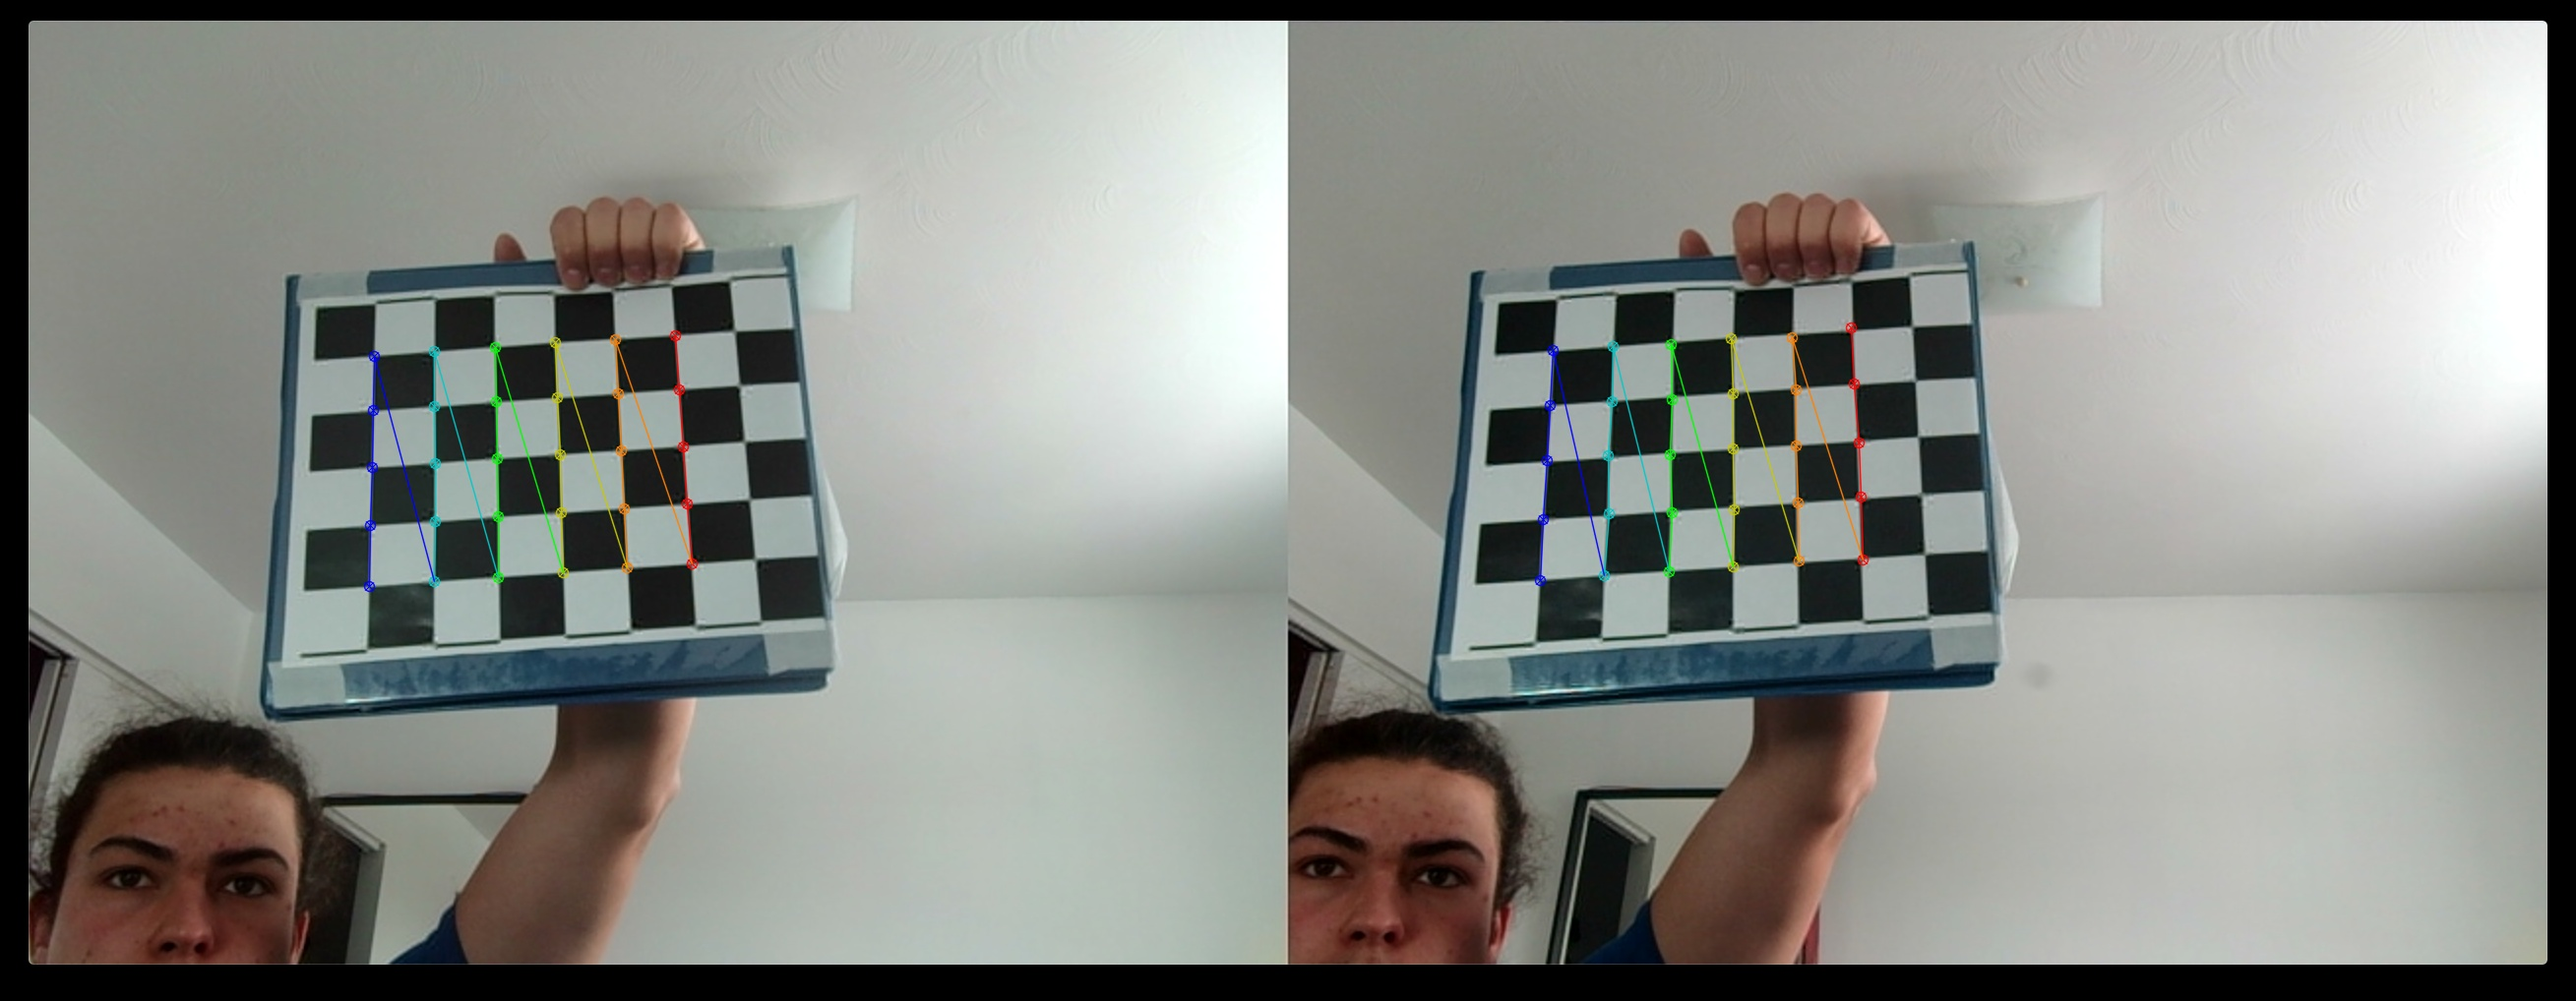
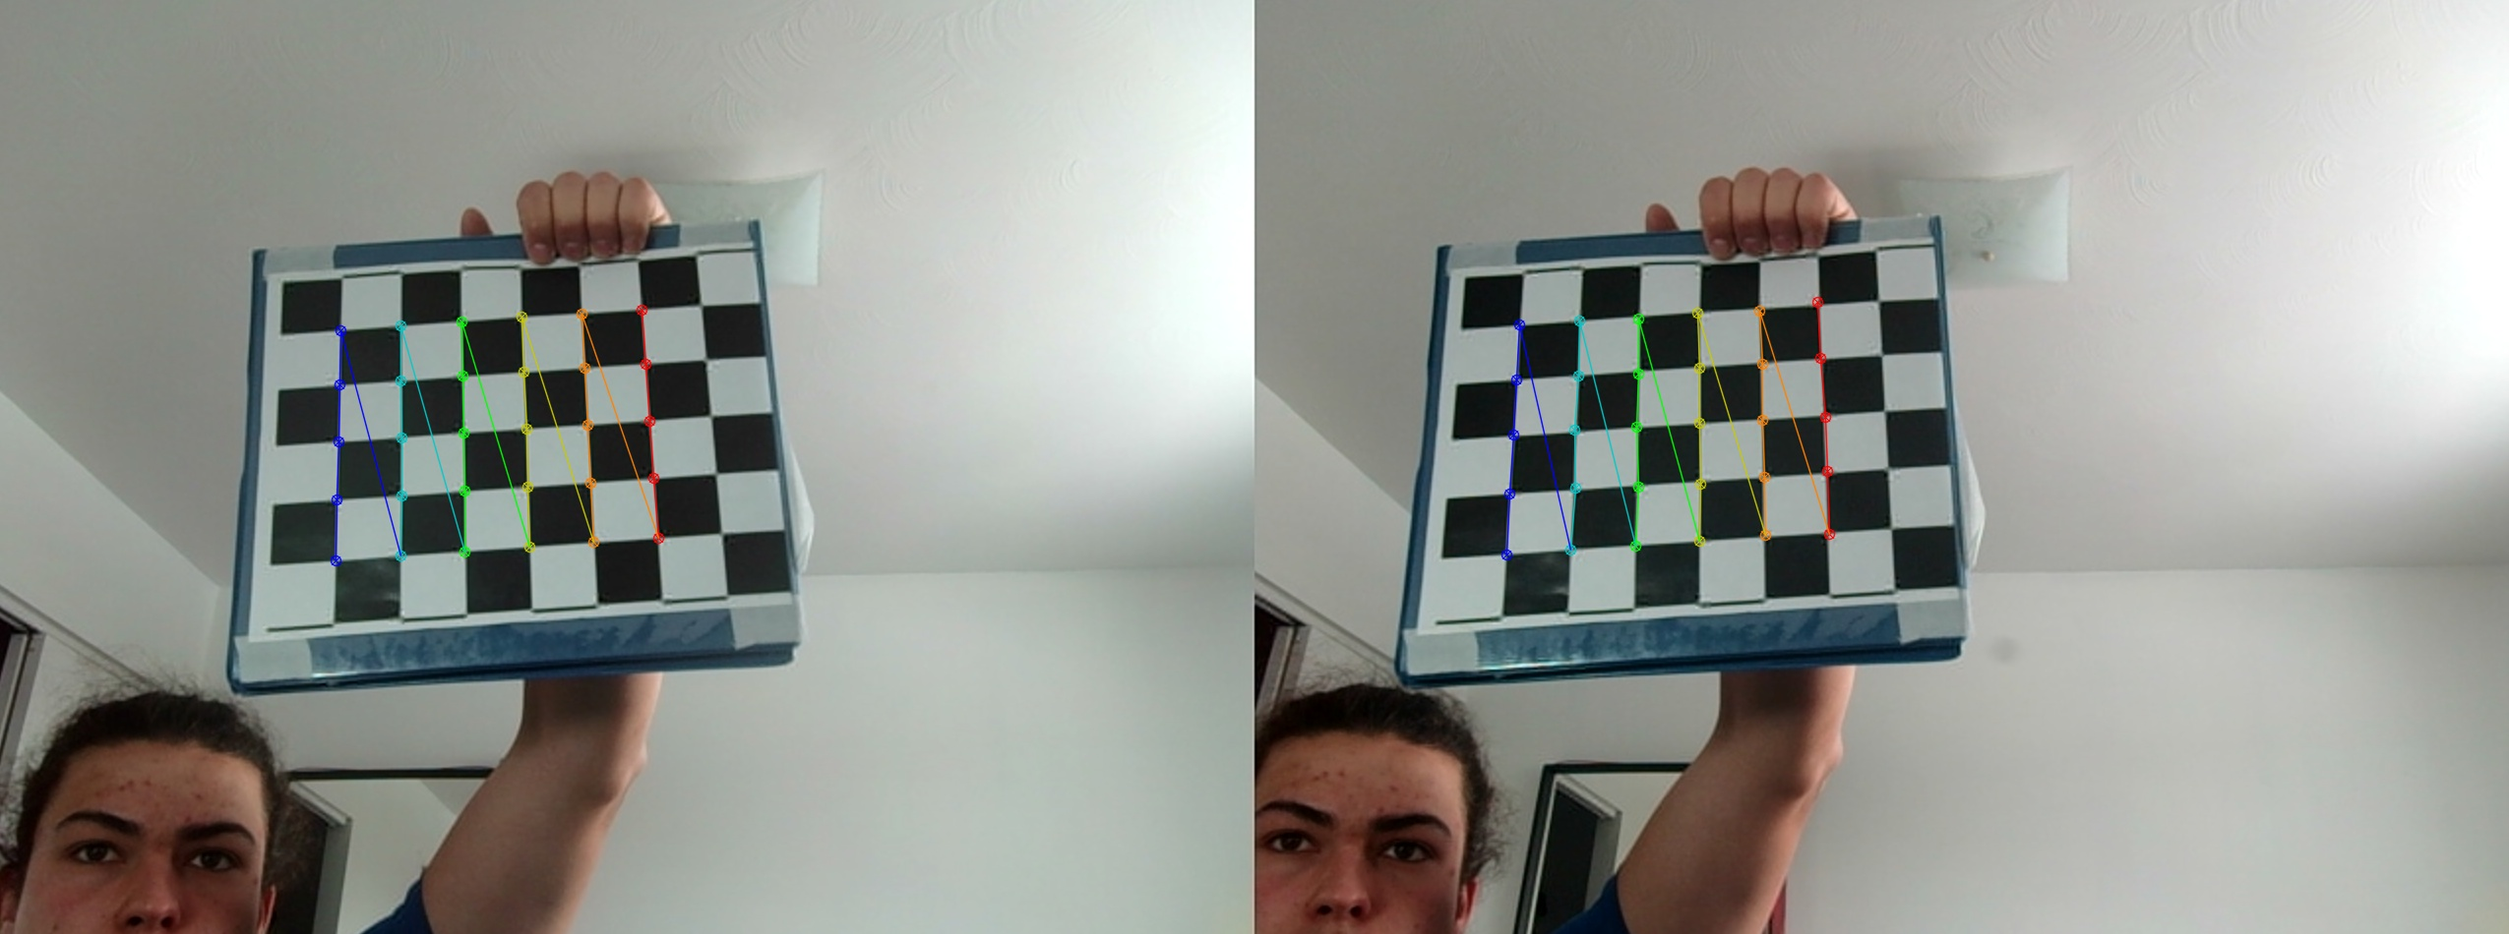
width and height switched

diff --git a/Depth.py b/Depth.py
@@ -30,8 +30,8 @@ def CalculateEyeDepth(pixels, depth):
 
     new_points = [(x[i], y[i]) for i in range(len(x))]
     for point in new_points:
-        res.append(round(depth[int(point[0])][int(point[1])],3))
-        cv.circle(depth, (int(point[0]), int(point[1])), radius=1, color=(255, 255, 255), thickness=3)
+        res.append(round(depth[int(point[1])][int(point[0])], 3))
+        cv.circle(depth, (int(point[1]), int(point[0])), radius=1, color=(255, 255, 255), thickness=3)
 
     median=np.median(res)
     average=np.average(res)

diff --git a/imagePreparation.py b/imagePreparation.py
@@ -4,7 +4,7 @@ import numpy as np
 def ImagePreparation(img):
   gray = cv.cvtColor(img, cv.COLOR_BGR2GRAY)
   _, thresh = cv.threshold(gray, 0, 255, cv.THRESH_BINARY)
-  contours, hierarchy, a = cv.findContours(thresh, cv.RETR_EXTERNAL, cv.CHAIN_APPROX_SIMPLE)
+  contours, hierarchy = cv.findContours(thresh, cv.RETR_EXTERNAL, cv.CHAIN_APPROX_SIMPLE)
   cnt = contours[0]
   x, y, w, h = cv.boundingRect(cnt)
   cropped = img[y + 5 : y + h - 5, x + 5 : x + w - 5]
